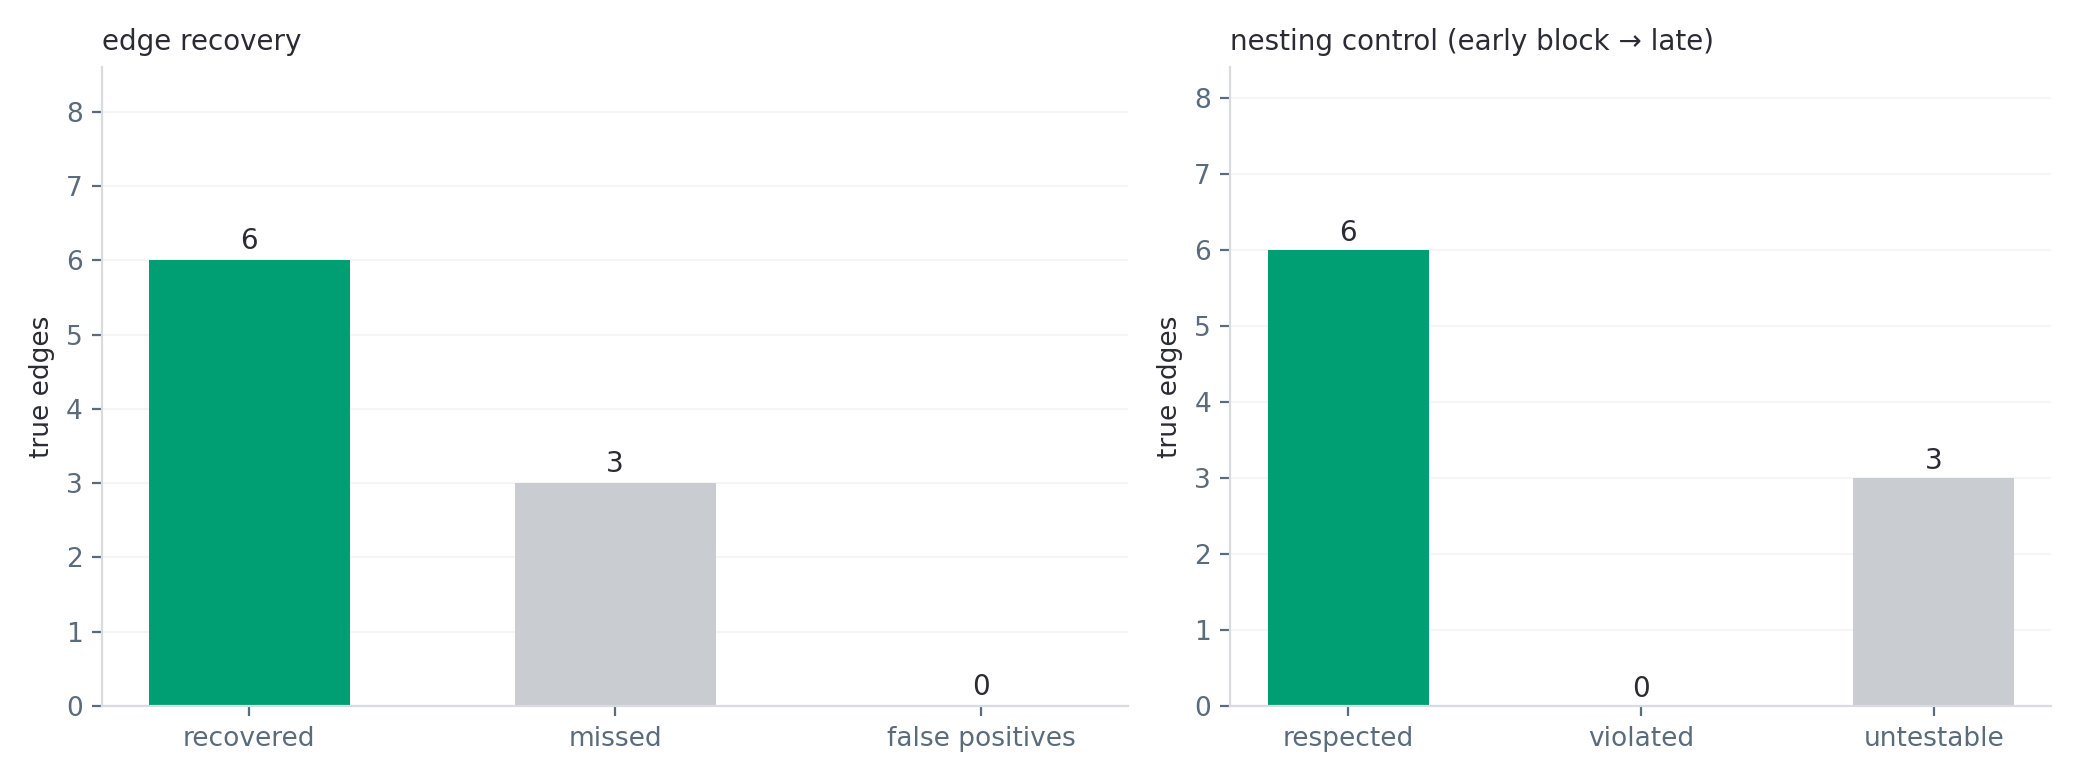
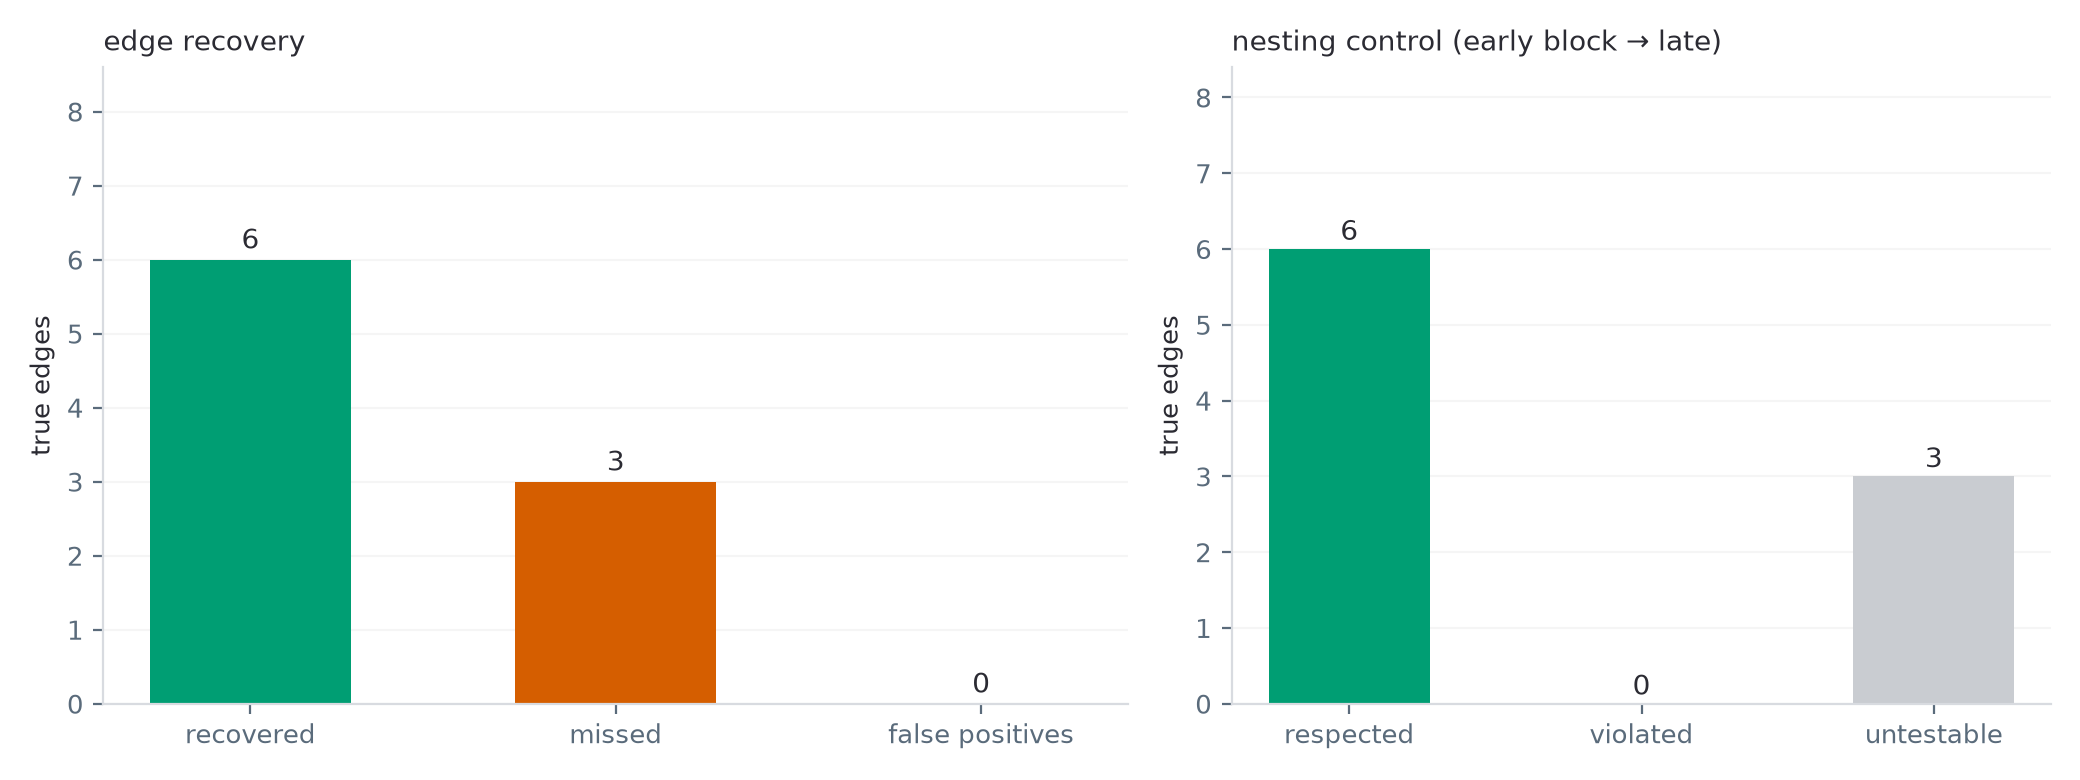
feat(reporting): draw the toy tree before and after the battery
Review feedback on the recovery figure: no explanation of what recovering an
edge means, because the tree is never shown, so "6 of 9 edges" cannot be read.

`calibration_toy_tree_recovered` draws the tree itself, ground truth beside
outcome, each node carrying the firing probability that generated it. The
root and the not-read-out siblings are drawn too: leaving them out made the
first version read as three disconnected subtrees beside a row of loose
features, and they are what makes the 23 links resolve to 9 scoreable edges.

Outcome colours are shared with `calibration_trained_toy_recovery`, which
scores the same three outcomes. "missed" moves off grey, where it could not
be told from a structural link, and false positives take a fourth Okabe-Ito
hue rather than the one "missed" now uses.

Fixes the build along the way: `cm.get_cmap` was removed in matplotlib 3.9,
and the AttributeError aborted `build()` before figures.tex was written, so
every figure after it went unwritten too. `plt.get_cmap` works on both.

figures.tex also picks up the sibling-redundancy numbers from 6b17fc8
(0.96 -> 0.74, 27,592 -> 17,912 co-firings), which had not been regenerated
since that fix landed.

The new caption is a first draft, to be rewritten by hand like the others.

diff --git a/reporting/make_report_figures.py b/reporting/make_report_figures.py
@@ -17,6 +17,7 @@ stale when the order changes.
     superparent_fanout_vs_firing            why a high-firing parent clears the bar for free
     calibration_synthetic_toy_scorecard     every metric against a known tree
     calibration_trained_toy_recovery        the same tree, through a real training run
+    calibration_toy_tree_recovered          that tree drawn, before and after the battery
     cross_source_funnel_shares              the same battery on gemma and on PCFG
     cross_source_layer_response             gemma vs PCFG at the layers both graded
     cross_source_alignment_check            block index or relative depth — which to pair on
@@ -55,6 +56,7 @@ import matplotlib
 matplotlib.use("Agg")
 import matplotlib.pyplot as plt  # noqa: E402
 import numpy as np  # noqa: E402
+from matplotlib.lines import Line2D  # noqa: E402
 
 import config as C  # noqa: E402
 
@@ -588,7 +590,9 @@ def calibration_trained_toy_recovery(tt, align):
                              gridspec_kw={"width_ratios": [1.25, 1]})
 
     ax = axes[0]
-    bars = [("recovered", tp, GOOD), ("missed", fn, NEUTRAL), ("false positives", fp, CAT[3])]
+    # Same three colours as `calibration_toy_tree_recovered`, which draws the same three
+    # outcomes: two conventions for one word is how a reader ends up counting twice.
+    bars = [("recovered", tp, GOOD), ("missed", fn, CAT[3]), ("false positives", fp, "#CC79A7")]
     ax.bar([b[0] for b in bars], [b[1] for b in bars],
            color=[b[2] for b in bars], width=0.55)
     for i, (_, v, _) in enumerate(bars):
@@ -622,6 +626,192 @@ def calibration_trained_toy_recovery(tt, align):
         a.grid(True, axis="y", alpha=0.12)
         a.set_axisbelow(True)
     return _finish(fig, axes, "calibration_trained_toy_recovery")
+
+
+def _tree_from_edges(true_edges, n_features):
+    """A stand-in tree for a calibration JSON written before the tree was recorded.
+
+    Edges alone have no root, which is what made the first version of this figure
+    read as three disconnected subtrees beside a row of loose features. Hanging
+    everything off one root restores the shape even without the real node data.
+    """
+    kids = {}
+    for p, c in true_edges:
+        kids.setdefault(p, []).append(c)
+    attached = {c for cs in kids.values() for c in cs}
+    children = [{"_idx": p, "children": [{"_idx": c, "children": []} for c in sorted(kids[p])]}
+                for p in sorted(kids)]
+    children += [{"_idx": f, "children": []}
+                 for f in range(n_features) if f not in kids and f not in attached]
+    return {"_idx": None, "children": children}
+
+
+def _toy_tree_layout(tree):
+    """Left-to-right positions for every node of the tree, plus its parent->child links.
+
+    Depth runs along x and siblings stack down y. Laid out top-down the 20 leaves need
+    a panel wider than the page; stacked vertically they fit beside the other two
+    panels. The root and the not-read-out nodes are included: dropping them is what
+    made the earlier version look like scattered features rather than one tree.
+    """
+    nodes, links, cursor = [], [], [0]
+
+    def place(node, depth):
+        kids = node.get("children", [])
+        if kids:
+            slots = [place(c, depth + 1) for c in kids]
+            slot = (min(slots) + max(slots)) / 2
+        else:
+            slots, slot = [], cursor[0]
+            cursor[0] += 1
+        here = (depth, -slot)
+        nodes.append((here, node))
+        links.extend((here, (depth + 1, -s), node, c) for s, c in zip(slots, kids))
+        return slot
+
+    place(tree, 0)
+    return nodes, links, cursor[0]
+
+
+def _tree_listing(node, indent=0):
+    """The tree as exact text: index, firing probability, exclusivity.
+
+    `[--]` is a node that shapes the sampling but is not read out, so it holds no
+    feature index and can end no edge -- which is why the links visible here do not
+    all become scoreable edges.
+    """
+    idx = node.get("_idx")
+    tag = f"[{idx:>2}]" if idx is not None else "[--]"
+    excl = "   (children mutually exclusive)" if node.get("mutually_exclusive_children") else ""
+    lines = ["  " * indent + f"{tag}  p={node['active_prob']}{excl}"]
+    for child in node.get("children", []):
+        lines += _tree_listing(child, indent + 1)
+    return lines
+
+
+def _index_tree(node, counter=None):
+    """Attach each read-out node's feature index, the way the sampler assigns them."""
+    counter = [0] if counter is None else counter
+    if node.get("is_read_out", True):
+        node["_idx"] = counter[0]
+        counter[0] += 1
+    for child in node.get("children", []):
+        _index_tree(child, counter)
+    return node
+
+
+def calibration_toy_tree_recovered(tt):
+    """What an edge IS, the tree it lives in, and what the battery did with it.
+
+    `calibration_trained_toy_recovery` counts the outcomes; this shows which edges
+    they were. Colours match that figure exactly (recovered / missed / false
+    positive), so the two read as one statement rather than two conventions.
+
+    The left panel exists because of reviewer feedback on the earlier version: a
+    recovery figure is unreadable when the tree behind it is never shown, so "6 of 9
+    edges" means nothing. It spells out the generative process, the rule that makes an
+    edge an edge, and the exact edge list being scored.
+    """
+    truth = [tuple(e) for e in tt["true_edges"]]
+    found = {tuple(e) for e in tt["found_edges"]}
+    recovered = set(tt["recovered_features"])
+    spurious = sorted(found - set(truth))
+
+    tree = (_index_tree(json.loads(json.dumps(tt["tree"]))) if tt.get("tree")
+            else _tree_from_edges(truth, tt["n_features"]))
+    nodes, links, n_rows = _toy_tree_layout(tree)
+    pos = {n["_idx"]: xy for xy, n in nodes if n.get("_idx") is not None}
+    depth = max(xy[0] for xy, _ in nodes)
+
+    fig, axes = plt.subplots(1, 2, figsize=(11.0, 7.4))
+
+    # Outcome colours, shared with `calibration_trained_toy_recovery` so the counts and
+    # the drawing cannot use two conventions for the same three words. Okabe-Ito, like
+    # CAT: every pair is separable in both common forms of colour blindness, which grey
+    # for "missed" was not once it sat beside a grey structural link.
+    MISSED, SPURIOUS = CAT[3], "#CC79A7"
+    # A link touching a node with no feature index is structure, not a scoreable edge:
+    # this is what makes the tree's 12 visible links resolve to 9 scoreable edges, so it
+    # has to be READ, not merely sensed. It was near-white while "missed" was the grey it
+    # had to stay clear of; with missed now orange, this can be a grey that actually
+    # prints -- secondary to the outcome colours, but never invisible.
+    STRUCTURAL = "#9AA3AD"
+    # Nodes are deliberately neutral. Drawn in CAT[0] they competed with the edge
+    # colours, which are the thing this figure is about.
+    NODE = "#4A5A6A"
+
+    for ax, is_truth in zip(axes, (True, False)):
+        for (x0, y0), (x1, y1), parent, child in links:
+            pi, ci = parent.get("_idx"), child.get("_idx")
+            if pi is None or ci is None:
+                style = dict(color=STRUCTURAL, lw=1.15, ls=(0, (2.5, 2)))
+            elif is_truth:
+                style = dict(color=CAT[0], lw=2.4, ls="-")
+            elif (pi, ci) in found:
+                style = dict(color=GOOD, lw=2.8, ls="-")
+            else:
+                style = dict(color=MISSED, lw=2.4, ls=(0, (4, 2)))
+            ax.plot([x0, x1], [y0, y1], zorder=1, **style)
+
+        if not is_truth:
+            for (p, c) in spurious:
+                ax.plot(*zip(pos[p], pos[c]), color=SPURIOUS, lw=2.4,
+                        ls=(0, (1.2, 1.4)), zorder=2)
+
+        for xy, node in nodes:
+            idx = node.get("_idx")
+            # The ground-truth panel carries each node's firing probability, so the
+            # generative process is readable off the figure: p is conditional on the
+            # parent firing, which is what makes an edge containment rather than mere
+            # correlation. The right-hand panel is about outcomes and stays clean.
+            if is_truth and "active_prob" in node:
+                ax.text(xy[0], xy[1] - 0.33, f"p={node['active_prob']}",
+                        ha="center", va="top", fontsize=5.4, zorder=4,
+                        color=MUTED if idx is not None else STRUCTURAL)
+            if idx is None:
+                # Shapes the sampling, holds no feature: small and hollow, unlabelled.
+                ax.scatter([xy[0]], [xy[1]], s=48, zorder=3, facecolor="white",
+                           edgecolor=STRUCTURAL, linewidths=1.1)
+                continue
+            # On the left every feature exists by definition; on the right a hollow
+            # node is one no latent recovered, which is why edges touching it could
+            # not be found even in principle.
+            known = is_truth or idx in recovered
+            ax.scatter([xy[0]], [xy[1]], s=165, zorder=3,
+                       facecolor=NODE if known else "white",
+                       edgecolor=NODE if known else MUTED, linewidths=1.4)
+            ax.text(xy[0], xy[1], str(idx), ha="center", va="center", fontsize=6.4,
+                    zorder=4, color=_text_on(NODE) if known else MUTED)
+
+        # Extra room on the left: the root sits at x=0 and its p label hangs below it.
+        ax.set_xlim(-0.5, depth + 0.35)
+        ax.set_ylim(-n_rows + 0.4, 0.6)
+        ax.axis("off")
+
+    # Panel identifiers, not captions -- every number in them is read from the JSON.
+    n_tp = len(found & set(truth))
+    axes[0].set_title(f"the known tree — {len(truth)} edges over {tt['n_features']} features",
+                      fontsize=10, loc="left", color=INK)
+    axes[1].set_title(f"after the battery — {n_tp}/{len(truth)} recovered, "
+                      f"{len(spurious)} false, {len(recovered)}/{tt['n_features']} features learned",
+                      fontsize=10, loc="left", color=INK)
+
+    handles = [
+        Line2D([], [], color=CAT[0], lw=2.4, label="true edge"),
+        Line2D([], [], color=GOOD, lw=2.8, label="recovered"),
+        Line2D([], [], color=MISSED, lw=2.4, ls=(0, (4, 2)), label="missed"),
+        Line2D([], [], color=SPURIOUS, lw=2.4, ls=(0, (1.2, 1.4)), label="false positive"),
+        Line2D([], [], color=STRUCTURAL, lw=1.5, ls=(0, (2.5, 2)),
+               label="not scoreable (endpoint not read out)"),
+        Line2D([], [], color="white", marker="o", ls="", markersize=9,
+               markerfacecolor="white", markeredgecolor=MUTED, label="feature not learned"),
+    ]
+    # Three per row: six across an 11-inch canvas set the labels too tight to read.
+    fig.legend(handles=handles, loc="lower center", ncol=3, frameon=False, fontsize=8.5)
+    # tight_layout would reclaim the strip the legend sits in, so this figure
+    # manages its own margins (see `_finish`).
+    fig.subplots_adjust(left=0.02, right=0.98, top=0.93, bottom=0.11, wspace=0.05)
+    return _finish(fig, axes, "calibration_toy_tree_recovered", tight=False)
 
 
 # ---------------------------------------------------------------------------
@@ -1181,7 +1371,10 @@ def tangle_lives_in_top_block_pair(layers, pcfg):
     pcf = source_grid([(n.replace("PCFG layer ", "L"), r) for n, r in pcfg]) if pcfg else []
     panels = [(r"gemma-2-2b", gem)] + ([("PCFG", pcf)] if pcf else [])
 
-    cmap = cm.get_cmap("Blues")
+    # plt.get_cmap, not cm.get_cmap: the latter was removed in matplotlib 3.9 and its
+    # AttributeError aborted the whole build, so every later figure went unwritten too.
+    # This spelling works on both old and new matplotlib.
+    cmap = plt.get_cmap("Blues")
     n_max = max(len(g) for _, g in panels)
     fig, axes = plt.subplots(
         1, len(panels), figsize=(7.2 * len(panels), 0.26 * n_max + 1.9),
@@ -1785,6 +1978,10 @@ def build(dry: bool) -> tuple[list[str], list[tuple[str, str]]]:
         + ("" if align else " (block_tree_alignment.json absent — right panel blank)")
         if tt else "needs outputs/trained_toy_calibration.json (Tier 2)",
         lambda: calibration_trained_toy_recovery(tt, align))
+    run("calibration_toy_tree_recovered", bool(tt),
+        "outputs/trained_toy_calibration.json"
+        if tt else "needs outputs/trained_toy_calibration.json (Tier 2)",
+        lambda: calibration_toy_tree_recovered(tt))
 
     # Every graded layer of BOTH sources. This figure once carried gemma layer 6
     # alone -- the layer that had the strict test first -- and kept doing so
@@ -2113,6 +2310,52 @@ def _captions():
                     "injected, which the synthetic tier structurally cannot produce, and which "
                     "the rest of the battery misses: both of that parent's edges are counted as "
                     "recovered and precision stays $1.00$.")
+        # DRAFT caption -- captions are written by hand here, so this is a starting
+        # point to rewrite, not final text. Every number in it is computed above from
+        # trained_toy_calibration.json rather than typed, so an edit to the data cannot
+        # leave the prose asserting a withdrawn result.
+        n_test = len([e for e in tt["true_edges"]
+                      if e[0] in set(tt["recovered_features"])
+                      and e[1] in set(tt["recovered_features"])])
+
+        def _n_nodes(node):
+            return 1 + sum(_n_nodes(c) for c in node.get("children", []))
+
+        # Links drawn = nodes - 1 (it is a tree). Counting them by hand gave 12, which
+        # is the count of family links only and ignores the root's own fan-out.
+        n_links = _n_nodes(tt["tree"]) - 1 if tt.get("tree") else None
+        links_clause = (f"which is why the {n_links} links drawn on the left reduce to "
+                        f"{len(tt['true_edges'])} scoreable edges"
+                        if n_links else
+                        f"which is why only {len(tt['true_edges'])} of the links drawn "
+                        "on the left are scoreable edges")
+        arch = str(tt["cfg"].get("activation_function", "")).replace("_", r"\_")
+        d["calibration_toy_tree_recovered"] = (
+            r"\textbf{What an edge is, and what the battery did with it.} "
+            "The toy world is a generative process: each node is a feature that fires "
+            "with the probability printed beneath it, \\emph{conditional on its parent "
+            "firing}. Feature~1 at $p=0.2$ under a parent at $p=0.15$ therefore fires on "
+            "$3\\%$ of draws, not $20\\%$. An \\textbf{edge} is containment: a child "
+            "fires only on draws where its parent fires, so "
+            "$P(\\text{parent}\\mid\\text{child})=1$ while "
+            "$P(\\text{child}\\mid\\text{parent})$ stays small, and it is that asymmetry "
+            "the battery measures. Hollow nodes (the root, and one hidden sibling per "
+            f"family) carry no feature index, {links_clause}. "
+            "\\textbf{Left}: the known tree. "
+            f"\\textbf{{Right}}: the same tree after a Matryoshka SAE "
+            f"(\\texttt{{{arch}}}, $k={tt['cfg'].get('k')}$) is "
+            "trained on the world's activations, each latent is matched to the true "
+            "feature its decoder points at, and the battery is run on the learned "
+            f"latents alone. It returned {tt['true_positives']} of "
+            f"{len(tt['true_edges'])} true edges with {tt['false_positives']} false "
+            f"positives. The reading that matters is the decomposition: the SAE learned "
+            f"{tt['n_recovered_features']} of {tt['n_features']} features, leaving "
+            f"{n_test} edges with both endpoints present, and the battery returned "
+            f"\\emph{{all}} {n_test} of them. Every missed edge ends at a feature no "
+            "latent recovered, so nothing here is a failure of the metrics; it is the "
+            "ceiling the SAE set for them. Precision is not thereby guaranteed: a "
+            "second training run from the same recipe learned more features and "
+            "produced two false positives, both from a single parent.")
         d["calibration_trained_toy_recovery"] = (
             r"\textbf{The same world, after a real training run.} The toy world's ground "
             "truth is a tree: a set of parent$\\rightarrow$child links between features "
@@ -2411,6 +2654,8 @@ TEX_ORDER = [
      "Every metric scored against a known tree.", "The instrument, calibrated"),
     ("MAIN 5", "calibration_trained_toy_recovery", True,
      "The same tree, after a real training run.", None),
+    ("MAIN 5b", "calibration_toy_tree_recovered", True,
+     "That tree drawn, before and after the battery.", None),
     ("APP 1", "tangle_lives_in_top_block_pair", True,
      "The tangle lives in the coarsest block pair, on both sources.", "Appendix"),
     ("APP 1b", "a_slice_of_the_tangle", False,
@@ -2554,6 +2799,7 @@ CLAIMS = {
     "superparent_fanout_vs_firing": "the superparent gate reads fan-out; firing rate is handled per edge",
     "calibration_synthetic_toy_scorecard": "every metric scored against a known tree, plus two demonstrated blind spots",
     "calibration_trained_toy_recovery": "the same tree after a real training run, and the nesting control",
+    "calibration_toy_tree_recovered": "the tree drawn: which edges the battery returned, and which features were never learned",
     "cross_source_funnel_shares": "one unchanged battery across two SAE sources",
     "shared_input_moved_every_metric": "five of six metrics share an input and failed together — the battery's own failure mode",
     "base_rate_vs_frequency_capture": "the over-connection is base rate, not frequency capture — the hypothesis's premise, tested",

diff --git a/outputs/paper_figuers/figures.tex b/outputs/paper_figuers/figures.tex
@@ -138,15 +138,42 @@
     miss is an edge whose child the SAE never learned: it recovered 17 of 20 true features,
     which bounds recall from above. \emph{Right:} the lateral control, asking whether the
     Matryoshka nesting itself places a parent in an earlier block than its children. Beyond
-    edge recovery, the parent-conditioned sibling metric reports 0.96 for one true parent
+    edge recovery, the parent-conditioned sibling metric reports 0.74 for one true parent
     against 0.00 and 0.00 for the others. The grammar declares every parent's children
     mutually exclusive, and they co-fire 0 times in 200{,}000 draws; the latents that
-    recovered them co-fire 27,592 times, and one of the two never fires alone. The SAE
+    recovered them co-fire 17,912 times, and one of the two never fires alone. The SAE
     conflated two concepts the grammar keeps apart. This is a defect nobody injected, which
     the synthetic tier structurally cannot produce, and which the rest of the battery misses:
     both of that parent's edges are counted as recovered and precision stays $1.00$.
   }
   \label{fig:calibration-trained-toy-recovery}
+\end{figure}
+
+% [MAIN 5b]
+\begin{figure}[tbp]
+  \centering
+  \includegraphics[width=\linewidth]{calibration_toy_tree_recovered}
+  \caption{%
+    \textbf{What an edge is, and what the battery did with it.} The toy world is a generative
+    process: each node is a feature that fires with the probability printed beneath it,
+    \emph{conditional on its parent firing}. Feature~1 at $p=0.2$ under a parent at $p=0.15$
+    therefore fires on $3\%$ of draws, not $20\%$. An \textbf{edge} is containment: a child
+    fires only on draws where its parent fires, so $P(\text{parent}\mid\text{child})=1$ while
+    $P(\text{child}\mid\text{parent})$ stays small, and it is that asymmetry the battery
+    measures. Hollow nodes (the root, and one hidden sibling per family) carry no feature
+    index, which is why the 23 links drawn on the left reduce to 9 scoreable edges.
+    \textbf{Left}: the known tree. \textbf{Right}: the same tree after a Matryoshka SAE
+    (\texttt{batch\_topk}, $k=2$) is trained on the world's activations, each latent is
+    matched to the true feature its decoder points at, and the battery is run on the learned
+    latents alone. It returned 6 of 9 true edges with 0 false positives. The reading that
+    matters is the decomposition: the SAE learned 17 of 20 features, leaving 6 edges with both
+    endpoints present, and the battery returned \emph{all} 6 of them. Every missed edge ends
+    at a feature no latent recovered, so nothing here is a failure of the metrics; it is the
+    ceiling the SAE set for them. Precision is not thereby guaranteed: a second training run
+    from the same recipe learned more features and produced two false positives, both from a
+    single parent.
+  }
+  \label{fig:calibration-toy-tree-recovered}
 \end{figure}
 
 % -------------------------------------------------------------------------

diff --git a/outputs/paper_figuers/README.md b/outputs/paper_figuers/README.md
@@ -46,6 +46,7 @@ Generated by [`reporting/make_report_figures.py`](../../reporting/make_report_fi
 | `superparent_fanout_vs_firing.png` | the superparent gate reads fan-out; firing rate is handled per edge | 6 gemma layer reports |
 | `calibration_synthetic_toy_scorecard.png` | every metric scored against a known tree, plus two demonstrated blind spots | outputs/synthetic_toy_calibration.json |
 | `calibration_trained_toy_recovery.png` | the same tree after a real training run, and the nesting control | outputs/trained_toy_calibration.json |
+| `calibration_toy_tree_recovered.png` | the tree drawn: which edges the battery returned, and which features were never learned | outputs/trained_toy_calibration.json |
 | `cross_source_funnel_shares.png` | one unchanged battery across two SAE sources | 6 gemma + 4 PCFG layer reports |
 | `cross_source_layer_response.png` | the shape of B0→B1 is the same on both base models at the layers both graded; its strength is not | 10 graded runs across 2 sources, layers 1, 3 on both |
 | `cross_source_alignment_check.png` | which alignment across two models of different depth the data prefers — block index or relative depth | the same 10 runs under both alignment rules |
